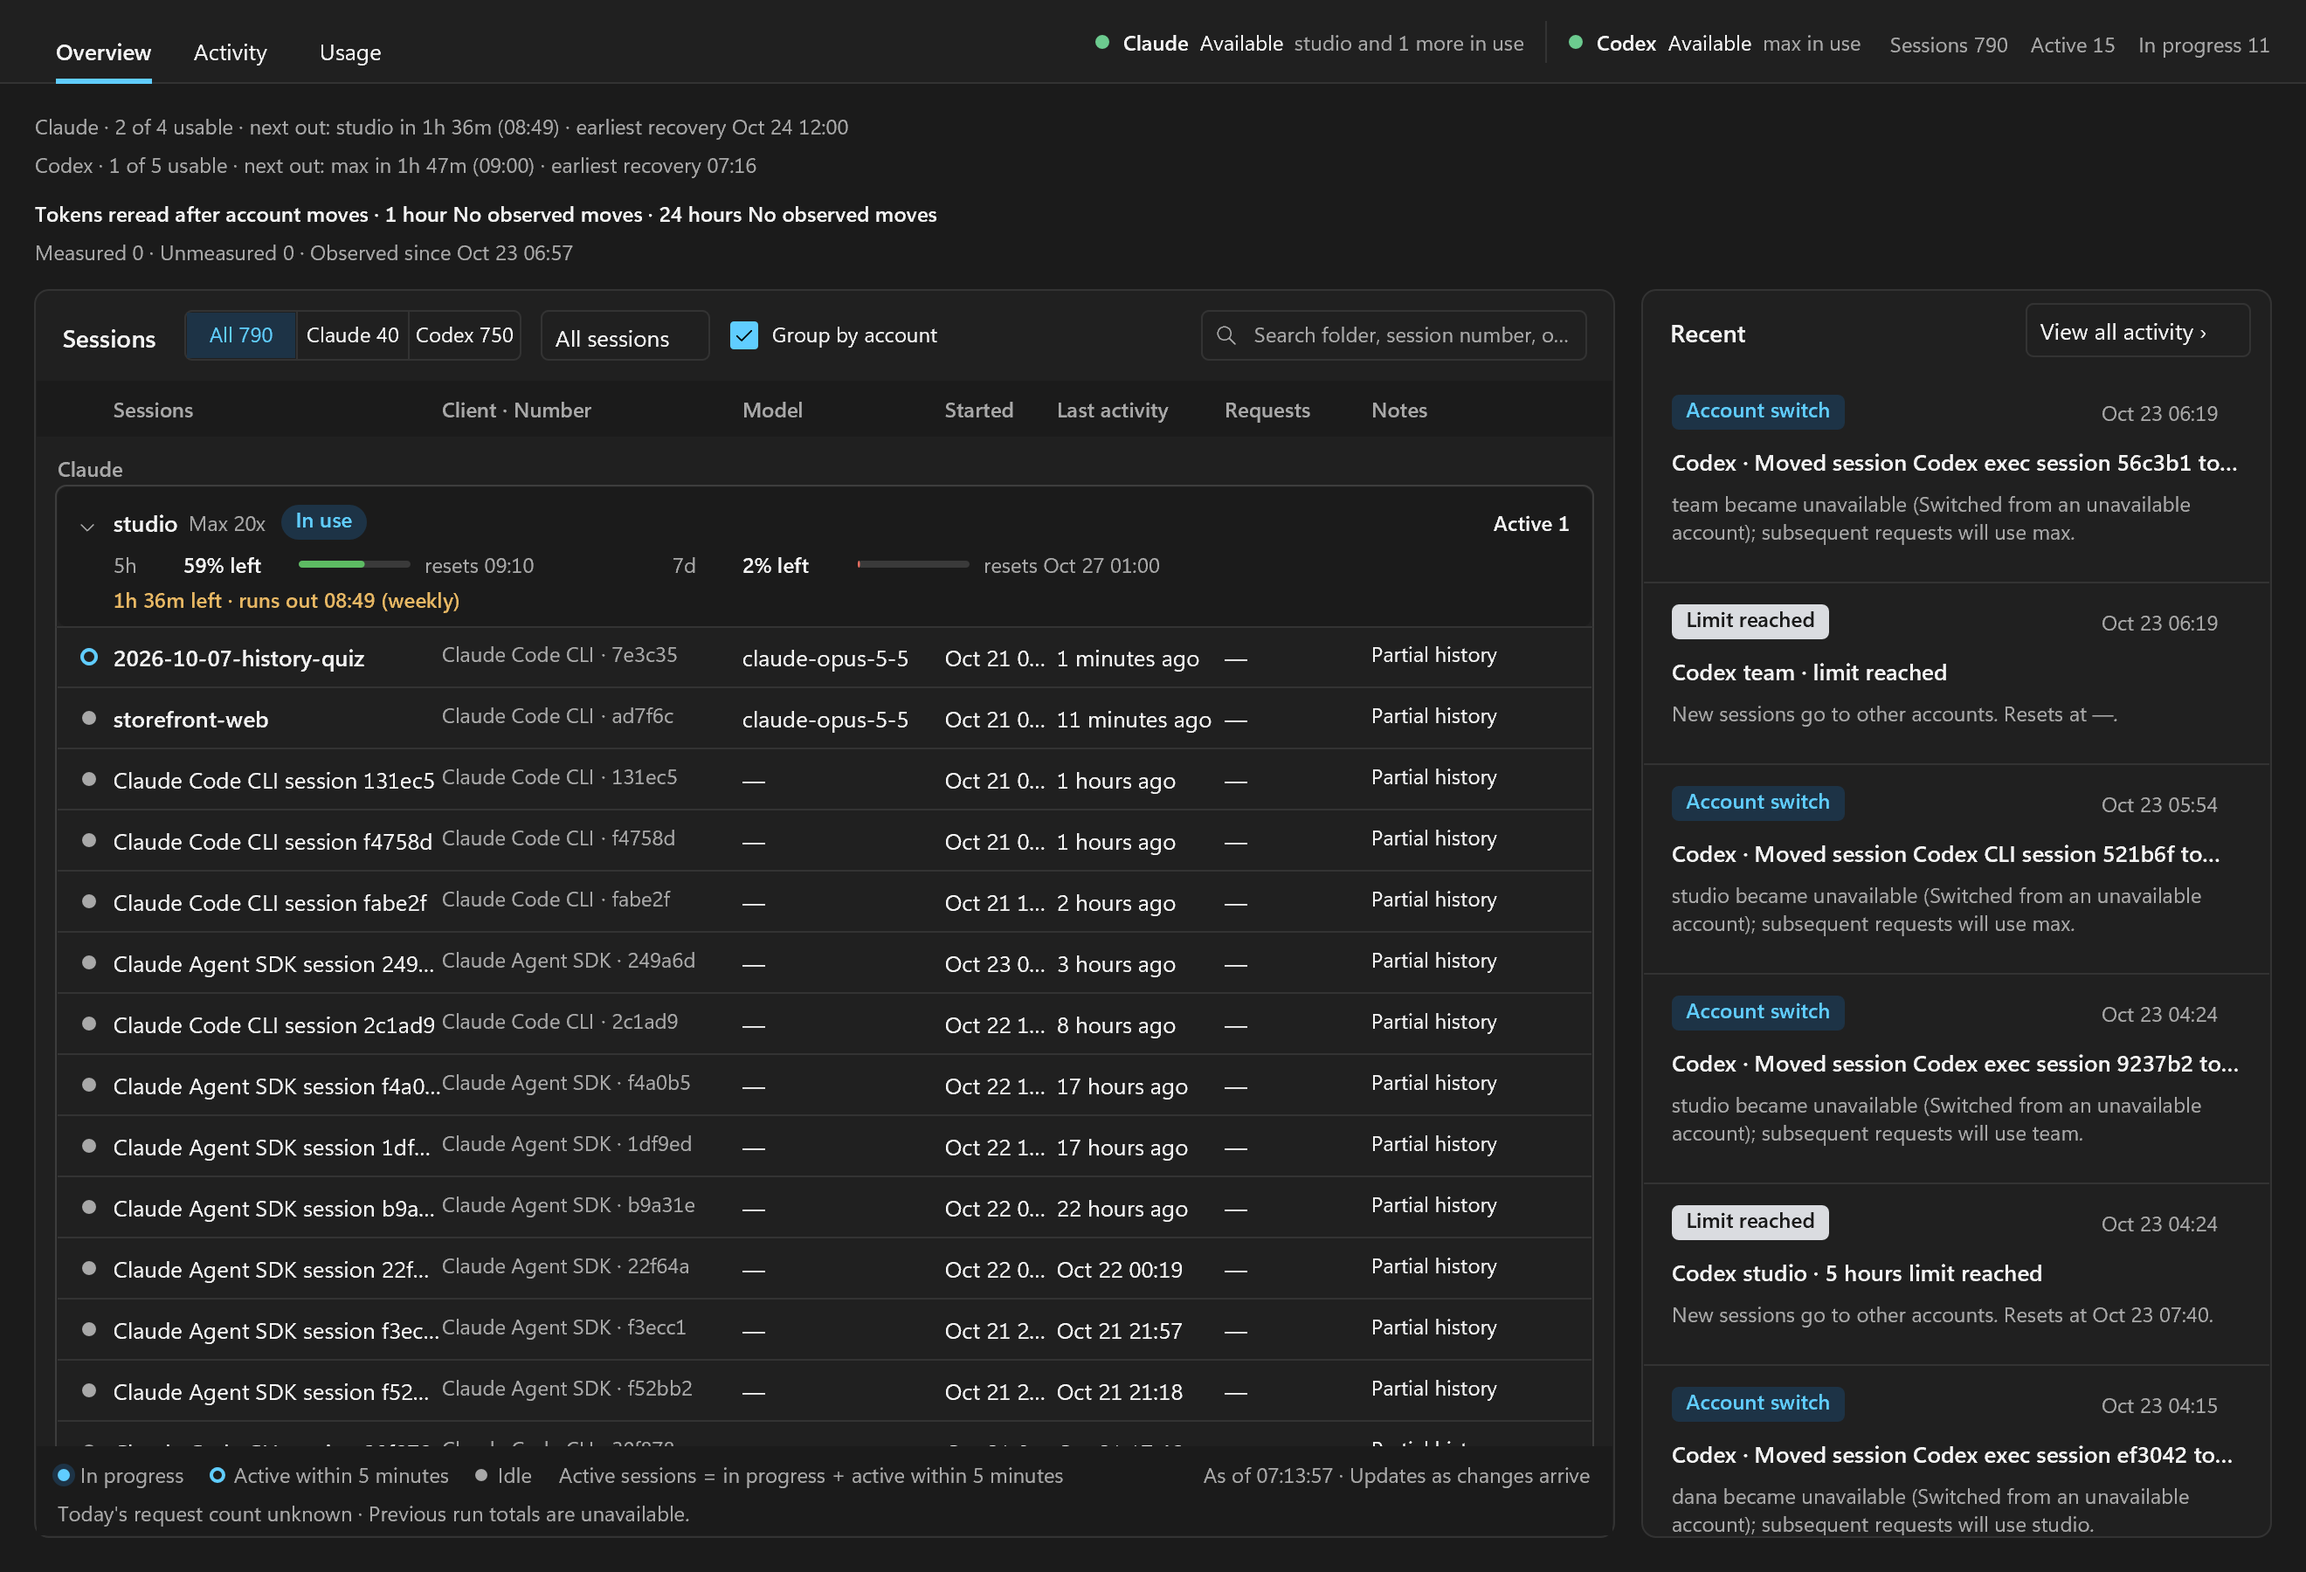
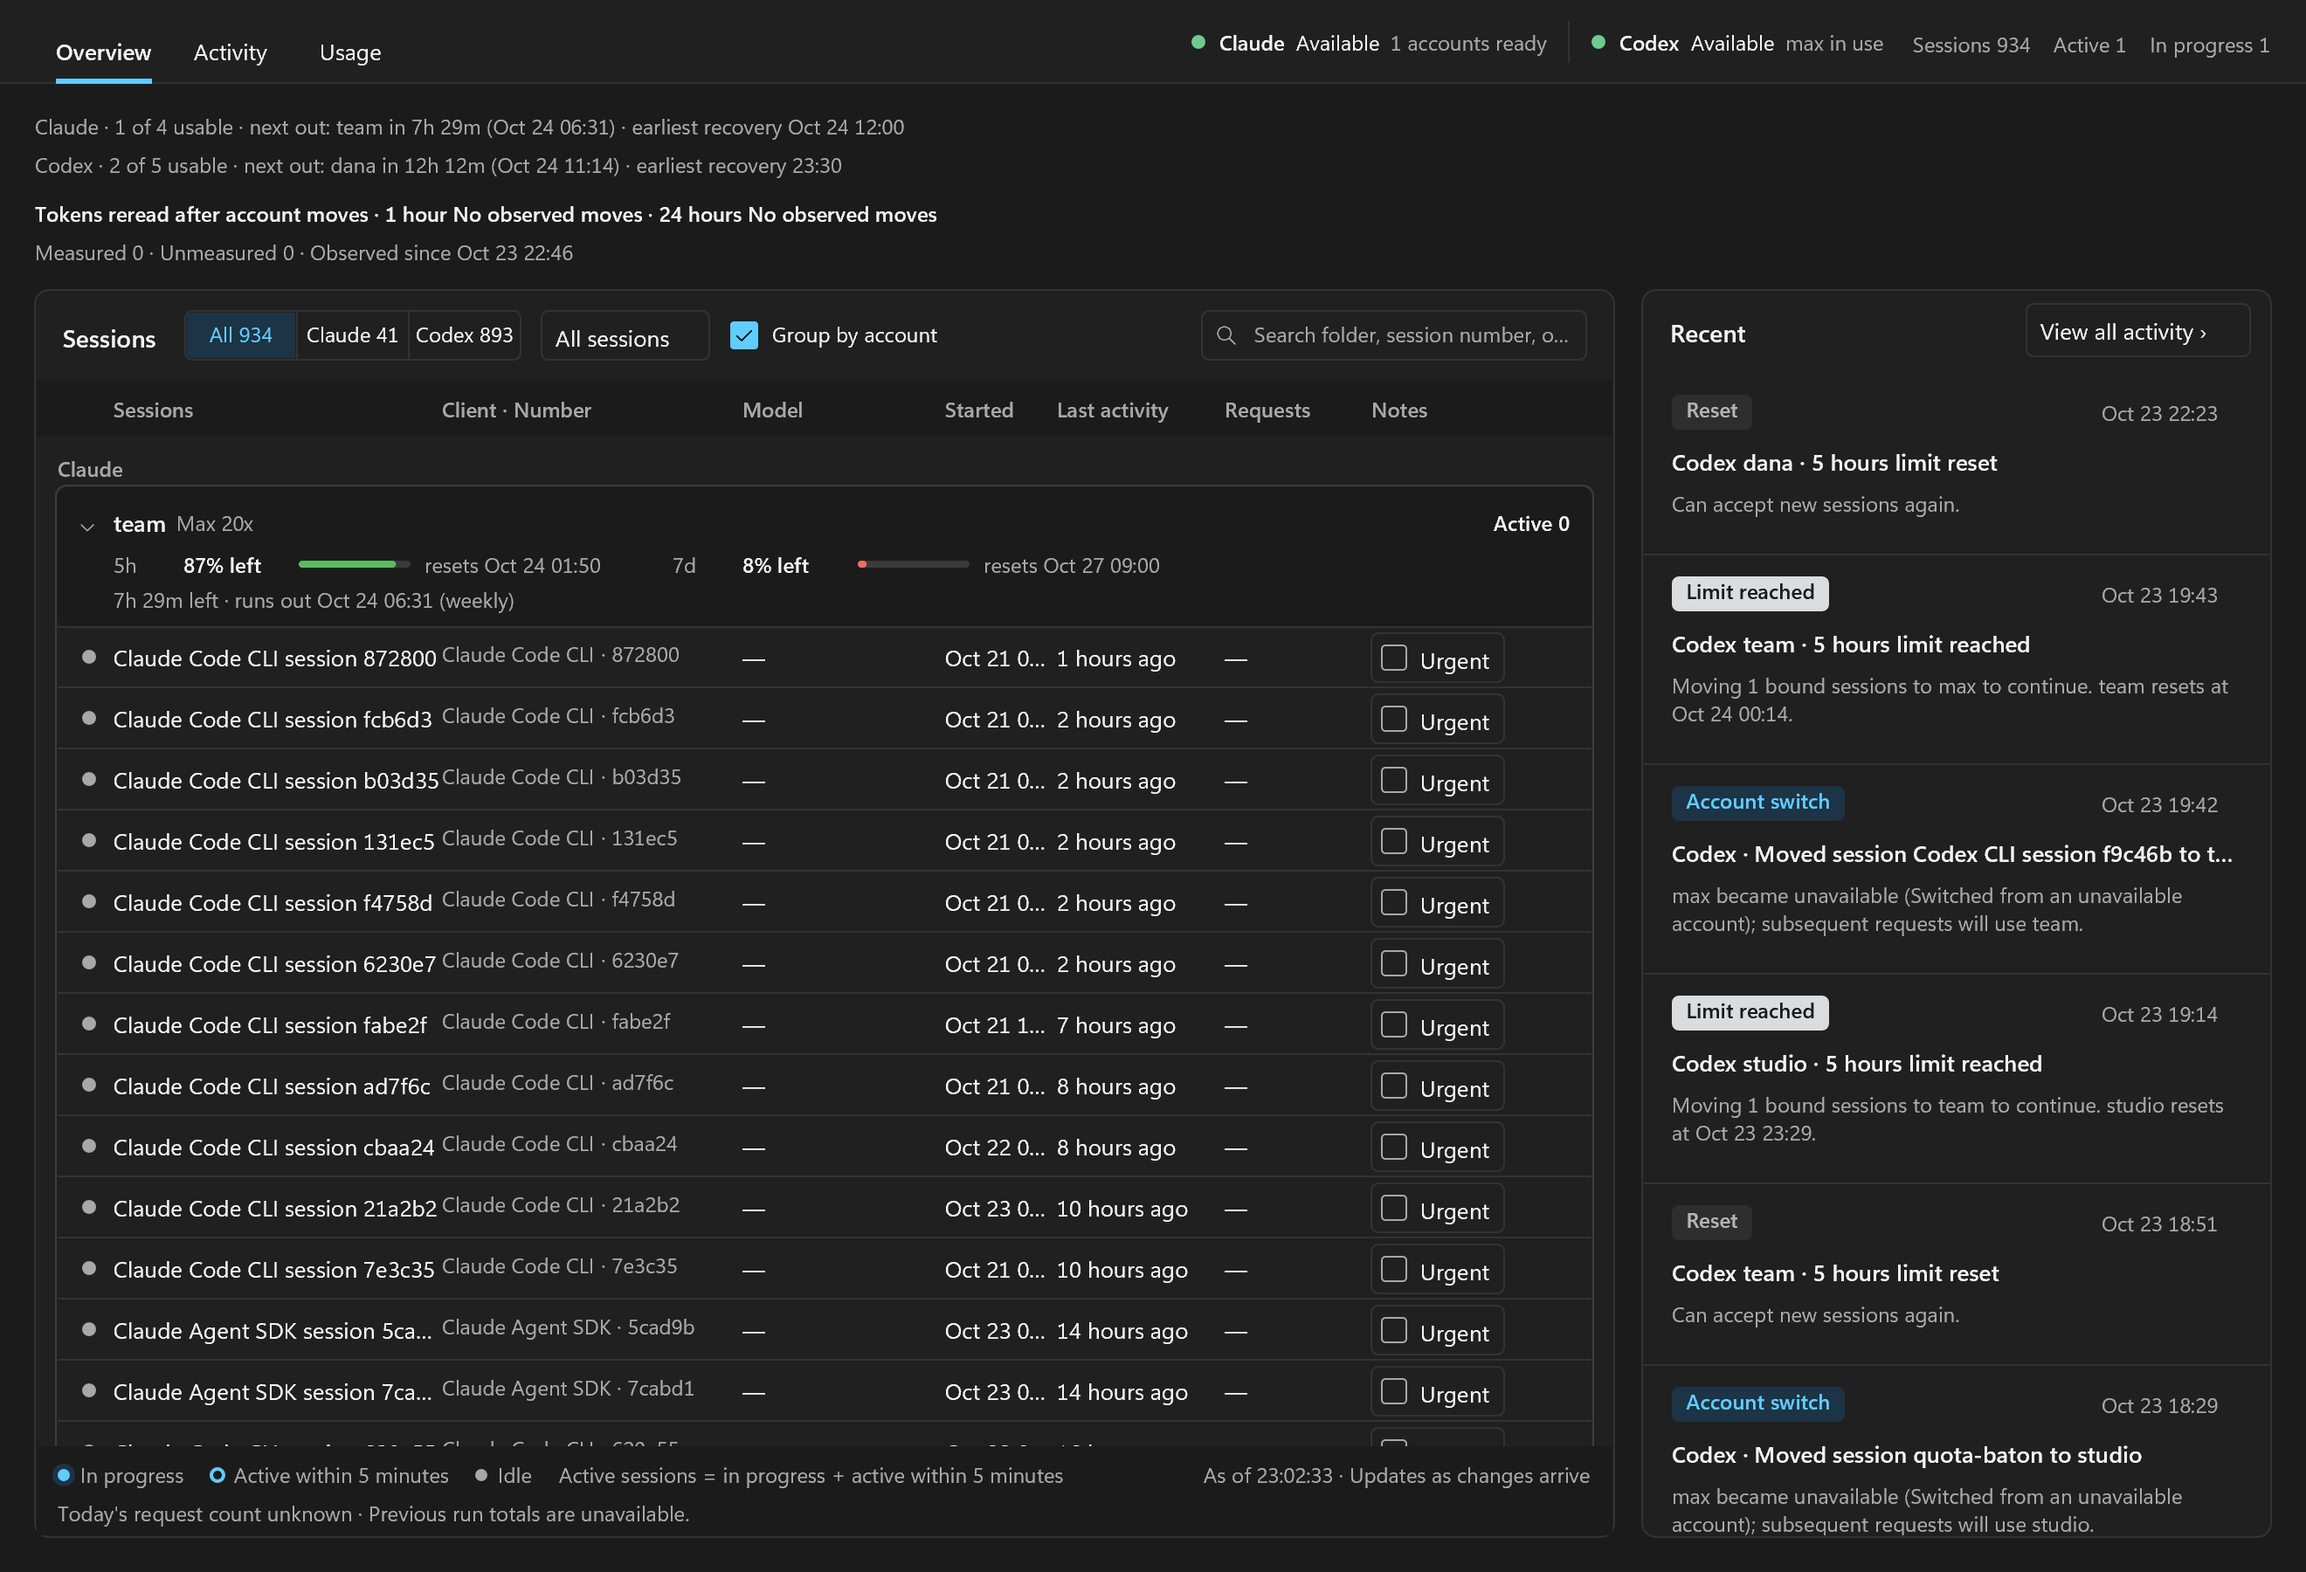
Version 0.3.0: urgent sessions, outside-use protection; refreshed README screenshots

diff --git a/README.md b/README.md
@@ -17,11 +17,12 @@ One week on the author's machine (Oct 16 to Oct 22, 2026):
 
 ## What sets it apart
 
-1. **Sessions keep their account.** Usage thresholds only decide where a *new* session goes. A running session changes account only when its account is out of quota, logged out or paused, so its prompt cache is not thrown away to chase a slightly emptier account.
+1. **Sessions keep their account.** Usage thresholds only decide where a *new* session goes. A running session changes account only when its account is out of weekly quota, logged out or paused (or at a 5-hour limit, if you marked it urgent), so its prompt cache is not thrown away to chase a slightly emptier account.
 2. **It knows how much is left, and when it will run out.** Usage comes from response headers and from each provider's usage endpoint. Every account shows one line such as `5h 47m left · runs out 11:27 (weekly)`, and each provider gets a summary line and a weekly chart against an even-pace line.
 3. **It does not touch what your client sends.** Request and response bodies from the real Claude Code and Codex CLI are relayed byte for byte; only the headers that carry credentials and routing are replaced. There is no client impersonation, no injected tools and no forced flags.
 4. **It stays small.** quota-baton never stores conversations. It keeps one copy of each request body only until the response starts, so memory does not grow with conversation length or with the number of idle connections.
-5. **It installs next to your setup, not over it.** `wire` adds `codex-qb` and `claude-qb`; plain `codex` and `claude` keep working exactly as before, as a fallback if the proxy is down.
+5. **It does not burn an account to dodge a short limit.** At a 5-hour limit a session waits on its own account for the reset instead of re-sending its whole context to another account. Mark a session urgent and it moves instead. Accounts you also use outside quota-baton are detected from their usage and left alone.
+6. **It installs next to your setup, not over it.** `wire` adds `codex-qb` and `claude-qb`; plain `codex` and `claude` keep working exactly as before, as a fallback if the proxy is down.
 
 ## Problems it fixes
 
@@ -42,7 +43,7 @@ Before writing quota-baton, the author ran two popular multi-account proxies on 
 
 ## How it works
 
-`claude-qb` and `codex-qb` point Claude Code and Codex CLI at the core on 127.0.0.1. The core reads each account's 5-hour and weekly usage and gives every new session the account with the most room. An account that has just taken a session gets no other new session until fresh usage data arrives, so a burst of launches does not pile onto one account. From then on the session keeps that account. When the account runs out, gets logged out or is paused, the next request of that session goes to another account.
+`claude-qb` and `codex-qb` point Claude Code and Codex CLI at the core on 127.0.0.1. The core reads each account's 5-hour and weekly usage and gives every new session the account with the most room. An account that has just taken a session gets no other new session until fresh usage data arrives, so a burst of launches does not pile onto one account. From then on the session keeps that account. When the account runs out of weekly quota, gets logged out or is paused, the next request of that session goes to another account. At a 5-hour limit the session waits for the reset on the same account, unless it is marked urgent.
 
 This is what that looked like for four Codex accounts over two days. As each Plus account reached its weekly limit, new work went to the next one:
 
@@ -143,6 +144,8 @@ The tray flyout shows the same accounts in a smaller view, with pause, credits a
 | `codex-qb resume <id>` | Bring a Codex conversation from another home into quota-baton |
 | `codex-qb --account <id>` | Prefer one account for this launch |
 | `codex-qb --images` | New session with the image tool |
+| `codex-qb --urgent`, `claude-qb --urgent` | Start a session that moves to another account at a 5-hour limit instead of waiting |
+| `quota-baton sessions urgent <id> on\|off` | Change that for a running session (also a toggle in the dashboard) |
 
 For a two-letter shortcut such as `codex-ab` (= `codex-qb --account <id>`), set `short = "ab"` under that account in `config.toml` and run `wire` again.
 
@@ -156,6 +159,7 @@ Settings live in `%LOCALAPPDATA%\quota-baton\config.toml`; set `QB_HOME` to use 
 - **Two providers.** Claude subscriptions (Claude Code) and ChatGPT subscriptions (Codex CLI).
 - **A move costs one uncached turn.** Prompt caches belong to an account and cannot follow a session. Codex also drops hidden reasoning from the old account.
 - **Korean by default.** The tray and dashboard switch to English with `[ui] language = "en"` in `config.toml`. Most CLI messages are still Korean.
+- **Waiting has a limit.** A session waits only while its client keeps the request open; after that it shows the provider's limit message and you resume it yourself. Automatic resume after long waits is not finished yet.
 - **Forecasts are estimates** from recent usage, not figures from the provider.
 - **Your accounts, your terms.** Use it only with accounts you own, and check each provider's terms for your plan.
 
